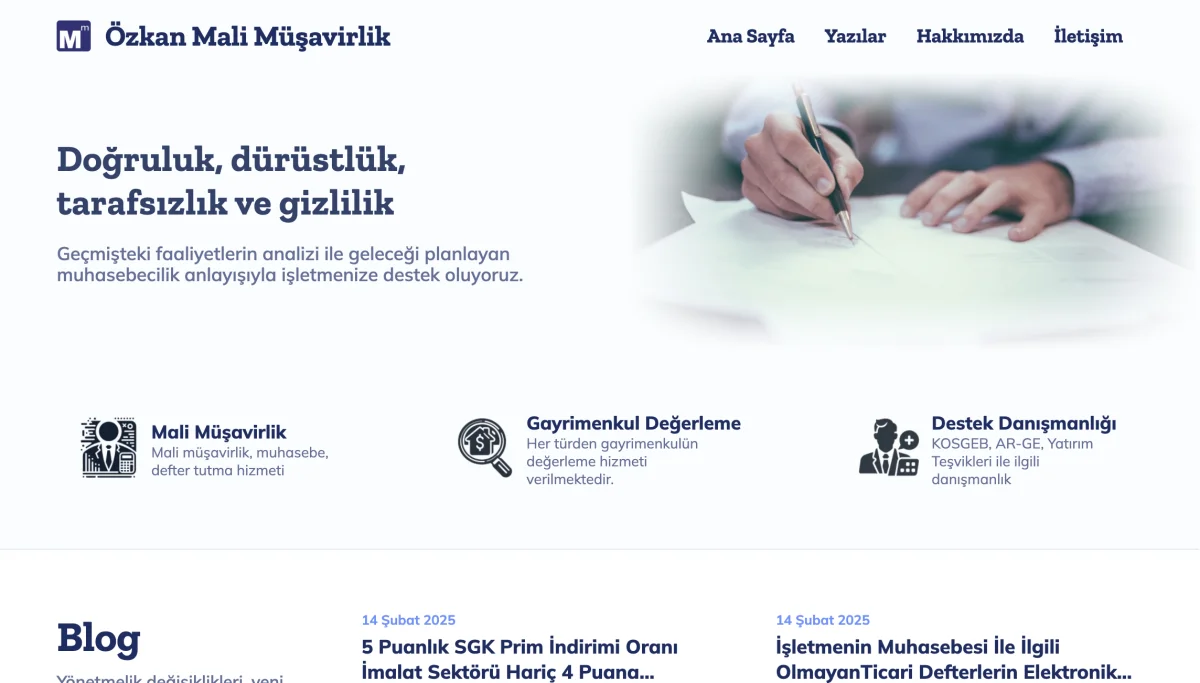
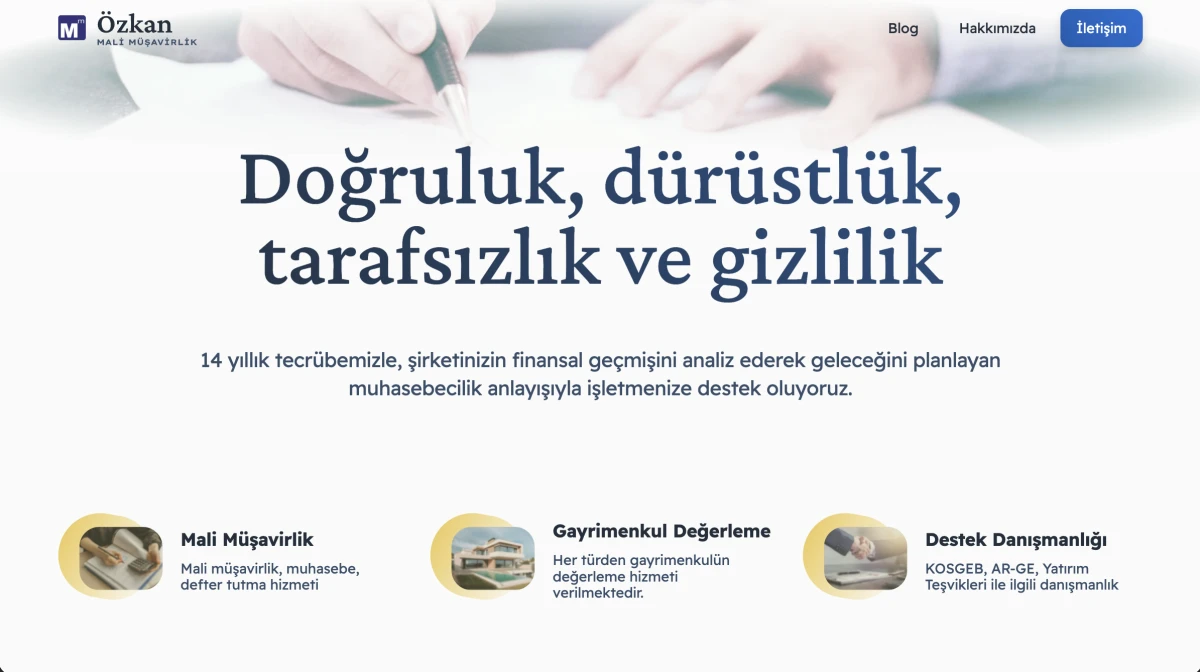
content: update projects and tools

diff --git a/src/content/projects.ts b/src/content/projects.ts
@@ -18,19 +18,33 @@ import MuiIcon from '~icons/simple-icons/mui';
 import NodeJsIcon from '~icons/logos/nodejs-icon';
 import AffinityDesignerIcon from '~icons/simple-icons/affinitydesigner';
 import SwiftIcon from '~icons/skill-icons/swift';
+import SanityIcon from '~icons/simple-icons/sanity';
 
 export const tools = {
-	ts: {
-		name: 'TypeScript',
-		icon: TypeScriptIcon
-	},
 	figma: {
 		name: 'Figma',
 		icon: FigmaIcon
 	},
+	ts: {
+		name: 'TypeScript',
+		icon: TypeScriptIcon
+	},
+	nodejs: {
+		name: 'Node JS',
+		icon: NodeJsIcon
+	},
+
 	svelte: {
 		name: 'Svelte/Kit',
 		icon: SvelteIcon
+	},
+	react: {
+		name: 'React',
+		icon: ReactIcon
+	},
+	nextJs: {
+		name: 'NextJS',
+		icon: NextJsIcon
 	},
 	tailwind: {
 		name: 'Tailwind CSS',
@@ -44,40 +58,32 @@ export const tools = {
 		name: 'SASS',
 		icon: SassIcon
 	},
-	react: {
-		name: 'React',
-		icon: ReactIcon
-	},
 	supabase: {
 		name: 'Supabase',
 		icon: SupabaseIcon
-	},
-	nextJs: {
-		name: 'NextJS',
-		icon: NextJsIcon
 	},
 	mui: {
 		name: 'Material UI',
 		icon: MuiIcon
 	},
-	nodejs: {
-		name: 'Node JS',
-		icon: NodeJsIcon
+	swift: {
+		name: 'Swift',
+		icon: SwiftIcon
 	},
 	affinityDesigner: {
 		name: 'AD 2',
 		icon: AffinityDesignerIcon
 	},
-	swift: {
-		name: 'Swift',
-		icon: SwiftIcon
+	sanity: {
+		name: 'Sanity',
+		icon: SanityIcon
 	}
 } as const;
 
 const projects: Project[] = [
 	{
 		name: 'Regule App',
-		desc: 'My own productivity app for managing time well. It shows you exactly how much time activities you take in your life and when your projects will finish.',
+		desc: 'My productivity app for managing time well. It is for tracking time you on activities and calculating when your projects will finish.',
 		tools: [tools.figma, tools.swift, tools.ts, tools.svelte],
 		tags: ['Mobile Design', 'iOS App'],
 		visitUrl: 'https://regule.app',
@@ -85,15 +91,15 @@ const projects: Project[] = [
 	},
 	{
 		name: 'Ozkan Musavirlik',
-		desc: 'A headless CMS and high-performance marketing platform for a financial consultancy firm. Built with SvelteKit & Sanity for 100/100 SEO scores. ',
-		tools: [tools.ts, tools.svelte, tools.sass, tools.figma],
-		tags: ['Design', 'Frontend'],
+		desc: 'High-performance marketing website with a blog feature for an accountancy firm. Built with SvelteKit & Sanity.',
+		tools: [tools.ts, tools.svelte, tools.sanity, tools.sass, tools.figma],
+		tags: ['Design', 'Full-Stack', 'CMS'],
 		visitUrl: 'https://www.ozkanmusavirlik.com.tr',
 		thumb: ozkanMusavirlikThumb
 	},
 	{
 		name: 'AllSet',
-		desc: 'An AI-powered receptionist integrated with WhatsApp. Designed the brand identity and engineered the landing infrastructure.',
+		desc: 'An AI-powered receptionist integrated with WhatsApp. Designed and built the brand identity, landing page and the onboarding flow.',
 		tools: [tools.ts, tools.figma, tools.svelte, tools.tailwind, tools.daisyui],
 		tags: ['Design', 'Frontend'],
 		visitUrl: 'https://allset-landing-dev-git-copy-test-metehan-altuntekins-projects.vercel.app/',

diff --git a/src/content/projects-tr.ts b/src/content/projects-tr.ts
@@ -16,15 +16,15 @@ const projects: Project[] = [
 	},
 	{
 		name: 'Ozkan Musavirlik',
-		desc: 'Mali müşavirlik firması için headless CMS ve yüksek performanslı pazarlama platformu. 100/100 SEO skorları için SvelteKit & Sanity ile geliştirildi.',
-		tools: [tools.ts, tools.svelte, tools.sass, tools.figma],
-		tags: ['Tasarım', 'Frontend'],
+		desc: 'Mali müşavirlik firması için yüksek performanslı pazarlama sitesi. Blog özelliği ile içerik yönetimi kolaylaştırıldı. SvelteKit & Sanity ile geliştirildi.',
+		tools: [tools.ts, tools.svelte, tools.sanity, tools.sass, tools.figma],
+		tags: ['Tasarım', 'Full-Stack', 'CMS'],
 		visitUrl: 'https://www.ozkanmusavirlik.com.tr',
 		thumb: ozkanMusavirlikThumb
 	},
 	{
 		name: 'AllSet',
-		desc: 'WhatsApp ile entegre edilmiş AI destekli resepsiyonist. Marka kimliğini tasarladım ve landing sayfasını geliştirdim.',
+		desc: "WhatsApp ile entegre edilmiş AI destekli resepsiyonist. Marka kimliğini, landing sayfasını ve onboarding flow'unu tasarldım ve geliştirdim.",
 		tools: [tools.ts, tools.figma, tools.svelte, tools.tailwind, tools.daisyui],
 		tags: ['Tasarım', 'Frontend'],
 		visitUrl: 'https://allset-landing-dev-git-copy-test-metehan-altuntekins-projects.vercel.app/',

diff --git a/src/routes/sitemap.xml/+server.ts b/src/routes/sitemap.xml/+server.ts
@@ -7,7 +7,7 @@ export const prerender = true;
 const LANGUAGES = ['en', 'tr'] as const;
 
 const listOfLastMod = {
-	'/': new Date('2026-02-26').toISOString(),
+	'/': new Date('2026-05-16').toISOString(),
 	'/blog': new Date('2026-02-26').toISOString()
 };
 